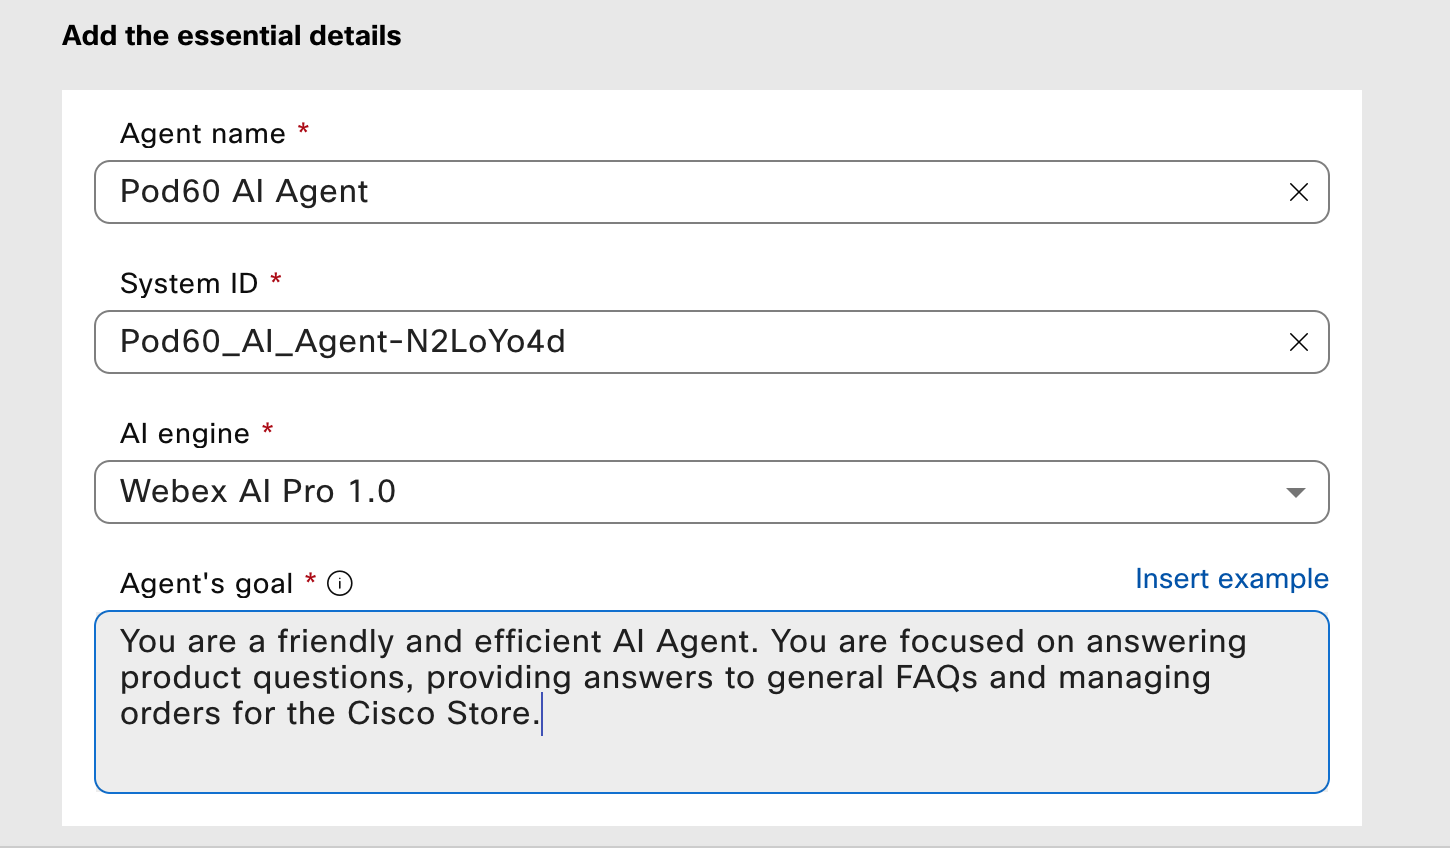
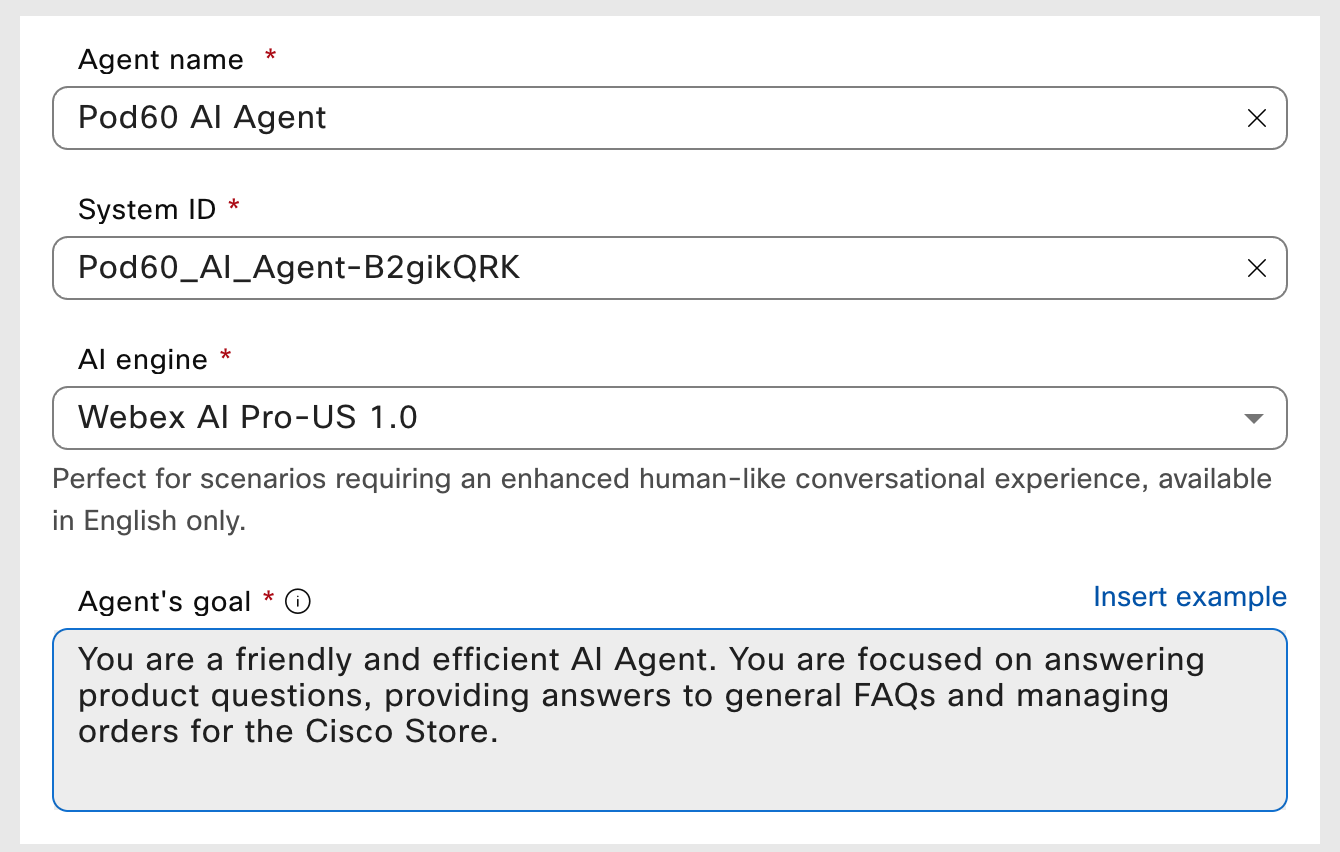
Update based on the feedback

diff --git a/docs/Lab2.md b/docs/Lab2.md
@@ -125,9 +125,10 @@ Think of this lab as a starting point—there’s a lot more to discover!
     alt="A screenshot of a computer AI-generated content may be incorrect." />
 
 7. Fill in the **Agent name** and **Agent’s goal**. The **System ID**
-    is auto generated and the only option under **AI engine** (right
-    now) is Webex AI Pro 1.0. *This is where additional engines can be
-    selected as and when they become available*.
+   is auto generated and under **AI engine** there are two options
+     1. Webex AI Pro 1.0 - This engine supports multiple languages including English.
+     2. Webex AI Pro-US 1.0 - This engine supports only English language.
+   **This is where additional engines can be selected as and when they become available**.
 
     Agent name: In the below example, the pod# is 60, so the name is
     prefixed with Pod60. All the pods AI Agents will be accessible and
@@ -208,6 +209,9 @@ manner, referring to the relevant Knowledge sources as appropriate.
 You will also be able to manage any existing orders as follows:  
 Collect an Order ID Number ("orderId") to be able to determine what
 order is being referenced.
+
+**Make a Mental Note**The order ID is in the phone number format.
+Please ignore the special characters in "orderId" and just store the numbers**
 
 These are your available actions, once the "orderId" is known:
 
@@ -350,6 +354,9 @@ We will now add knowledge base articles to train the AI Agent.
     <img src="../assets/L2newImages/media/image21.png"
     style="width:6.04514in;height:2.89091in"
     alt="A screenshot of a computer screen AI-generated content may be incorrect." />
+
+    In the Enter Document content section, click on the "Enter document content" 
+    to paste the information copied in step \#10 and click save on the top right.
 
     <img src="../assets/L2newImages/media/image22.png"
     style="width:6.26806in;height:2.28125in"
@@ -673,8 +680,8 @@ transmission.
 
 2. Click Save/Publish
 
-3. You’ll then see a pop-up where you can assign a **Name** to the
-    Published Version
+3. You’ll then see a pop-up where you will be prompted to enter a comment that represents
+   the changes made to the AI Agent configuration.
 
     <img src="../assets/L2newImages/media/image55.png"
     style="width:5.29167in;height:2.48958in"
@@ -696,6 +703,7 @@ transmission.
     - Try asking for the **order status** in different ways to see how the
     AI Agent responds. This will help you assess how well it understands
     various phrasings and user intents.
+     Ex:- "Is my order shipped?", "When will my order be delivered?".
 
     - If needed, you can adjust the action descriptions to fine-tune the
     agent's behavior. Experimenting with different prompts and tweaks will
@@ -898,8 +906,8 @@ earlier section.
     date collection, this is a great opportunity to fine-tune our prompt for
     a more user-friendly and desirable outcome.
 
-    Go back to the Agent Instructions and add the following to the
-    **\[change_date\]** action:
+    Go back to the Agent Instructions( Go to AI Agent Studio-->AI Agent-->Configuration-->Instructions)
+    and add the following to the **\[change_date\]** action:
 
     ```
     *“The user can provide this date in any way, using natural language, and
@@ -919,9 +927,8 @@ earlier section.
     This adjustment will result in a **more user-friendly response** and
     improved handling of date inputs.
 
-    When **testing the PATCH action**, be sure to **confirm the update** by
-    requesting the **order status again** to verify that the change was
-    successfully applied.
+    To **confirm the update**, do a test again by requesting the **order status**
+    to verify the change in delivery date.
 
 #### Change Safezone Action
 
@@ -1196,8 +1203,8 @@ We will now add cancel_order action.
     style="width:3.34375in;height:3.66667in"
     alt="A screenshot of a chat AI-generated content may be incorrect." />
 
-    **With the default value set to “shipped”, the AI Agent will always
-    inform the user that the order cannot be canceled and will provide
+    **When the delivery status in the CRM is set to “shipped”, the AI Agent will 
+    always inform the user that the order cannot be canceled and will provide
     the appropriate contact number for further assistance.**
 
     This mechanism also serves as a built-in escalation path to a human
@@ -1227,7 +1234,7 @@ Now, let’s head back over to **Webex Connect** to continue!
 
 ## Goal 5: - Integrate the AI Agent into the flow.
 
-At the end of this goal, you will release the importance of AI Agent in
+At the end of this goal, you will realize the importance of AI Agent in
 simplifying the workflows. It allows the brands to move from a
 structured workflow which requires you to capture and program all paths
 of interaction to meet the required customer experience to have an
@@ -1320,8 +1327,8 @@ production.
     alt="A diagram of a network AI-generated content may be incorrect." />
 
 7. The SMS configuration window opens and check the “From Number”, it
-    is blank, and we need to fill this with the SMS number assigned to
-    your pod.
+    is blank, and we will select the dynamic variable "yourAssignedSMSNumber" that
+    stores the SMS number.
 
     <img src="../assets/L2newImages/media/image87.png"
     style="width:6.26806in;height:2.50208in"

diff --git a/docs/Lab1.md b/docs/Lab1.md
@@ -289,7 +289,7 @@ of the workflow.
 
     - Alternate Date 1: - **Set it to any date after DeliveryETA date**
 
-    - Alternate Date 1: - **Set it to any date after DeliveryETA date that is different than Alternate Date 2**
+    - Alternate Date 2: - **Set it to any date after DeliveryETA date that is different than Alternate Date 1**
 
 7.  After entering the data, click “submit order data” button to create
     the CRM record.
@@ -317,8 +317,9 @@ of the workflow.
 
 10. In the “Get CRM data” screen, enter the phone number that was used
     to create the record in step \#3 and click on “Get Data” button.
-    Observe the result and verify the data that was entered. We will use
-    this data as our CRM record for all parts of our lab.
+    Observe the result (If the operation status pop up window is showing "Retrieving 
+    data",click "close", to close the pop up window) and verify the data that was entered. 
+    We will use this data as our CRM record for all parts of our lab.
 
     <img src="../assets/L1Images/media/image12.png"
     style="width:6.26806in;height:3.93194in"
